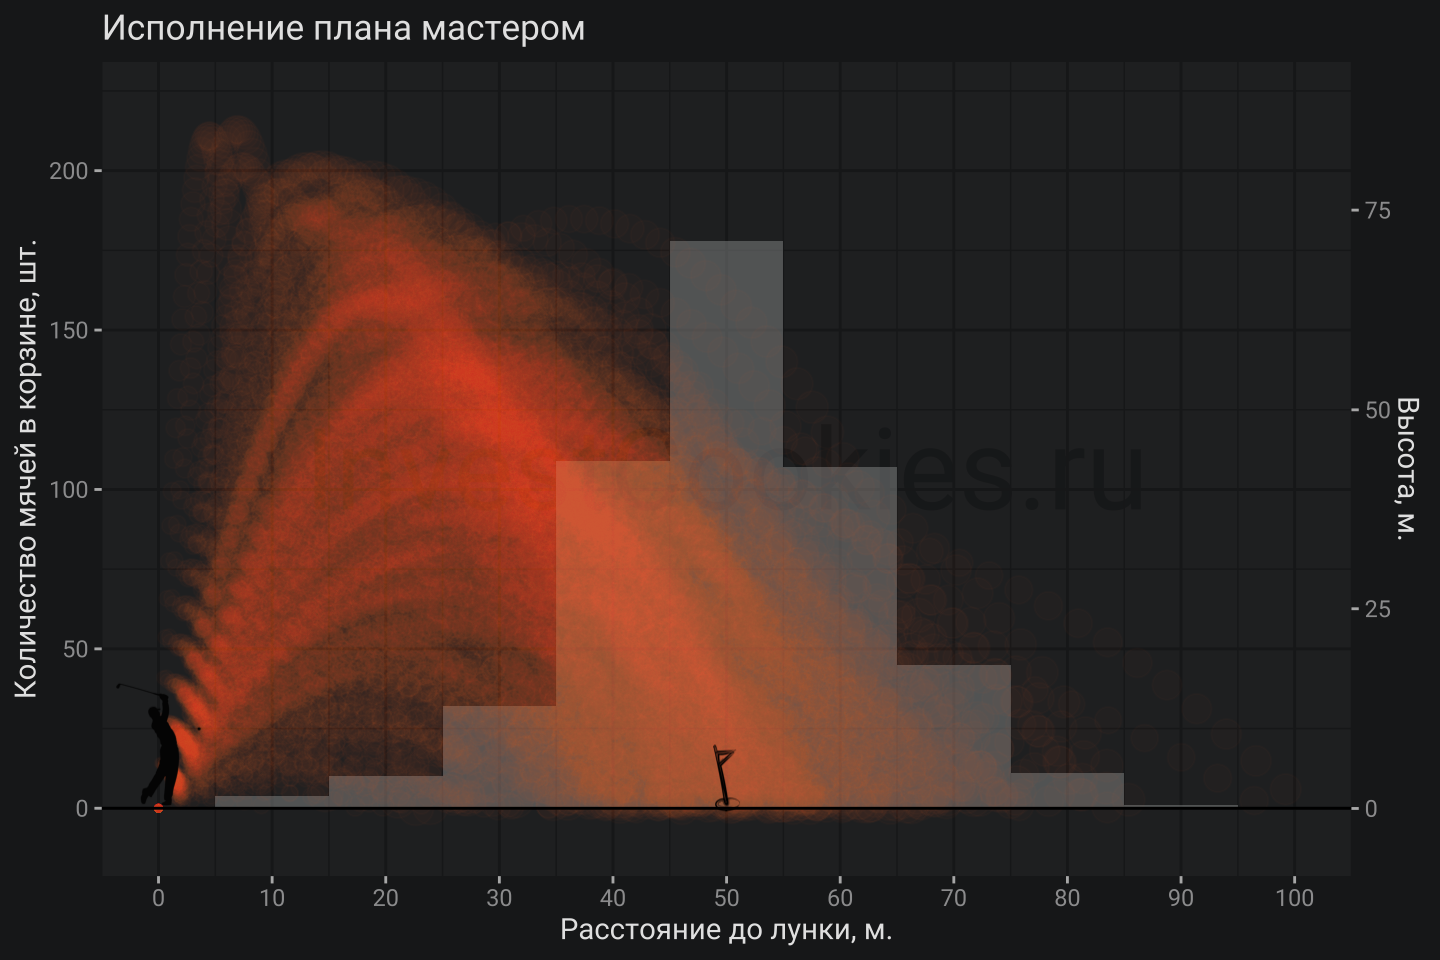
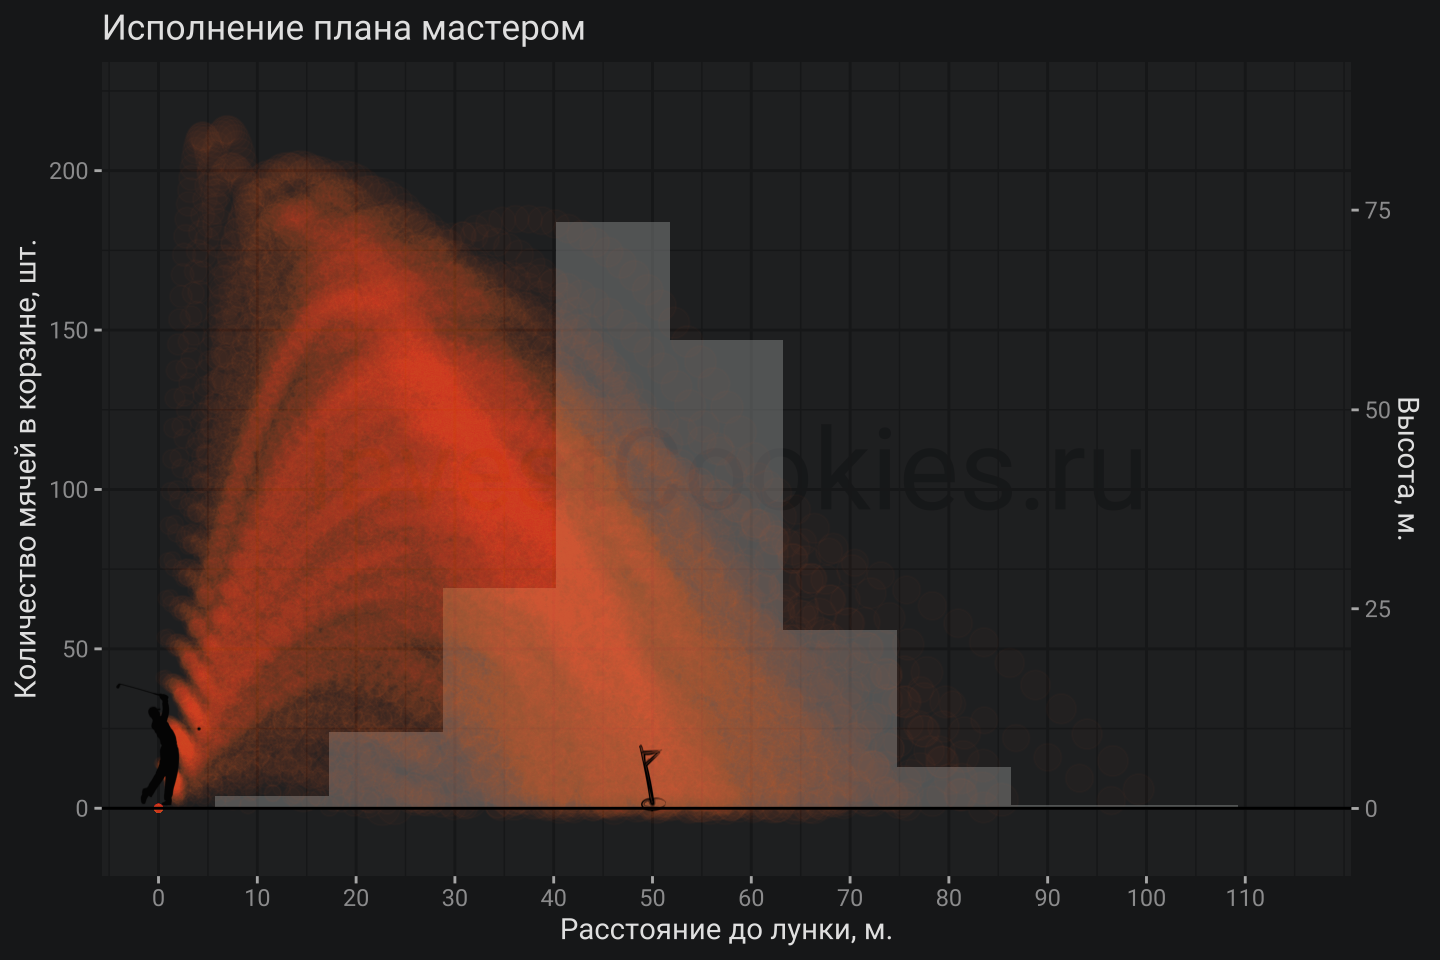
golf minor fixes

diff --git a/content/post/business_uncertainty/index.md b/content/post/business_uncertainty/index.md
@@ -143,7 +143,7 @@ plot_trajectory <- function(mdl_df, distr){
     geom_point(aes(x, y*2.5, size = t), alpha = .02, col = my_pal[2]) + 
     geom_hline(yintercept = 0, col = "black") + 
     scale_y_continuous(sec.axis = sec_axis(~./2.5, name = "Высота, м."), expand = c(.1, 0)) + 
-    scale_x_continuous(breaks = (0:10)*10, labels = (0:10)*10, limits = c(0, 100)) +
+    scale_x_continuous(breaks = (0:11)*10, labels = (0:11)*10, limits = c(0, 115)) +
     annotation_custom(grid::rasterGrob(golfer), xmin = -20, xmax = 20, ymin = 0, ymax = 40) +
     annotation_custom(grid::rasterGrob(hole), xmin = 45, xmax = 55, ymin = -1, ymax = 20) +
     labs(y = "Количество мячей в корзине, шт.", x = "Расстояние до лунки, м.") +
@@ -247,14 +247,14 @@ c(med - sd, med + sd) # стандарт качества для новичка
 ## [1]  2.89 95.27
 ```
 
-Игроки со смещенным планом полета мяча получат смещенный диапазон попаданий:
+Игроки со смещенным планом полета мяча получат смещенный диапазон попаданий, но более интересно то, что разброс приземлений мяча также увеличивается:
 
 
 ```r
 med <- median(res_distr3$last) %>% round(2)
 sd <- round(sd(res_distr3$last)*3, 2) 
 
-c(med - sd, med + sd) # стандарт качества для новичка
+c(med - sd, med + sd) # стандарт качества для максималиста
 ## [1]  16.17 123.43
 ```
 Теперь на основе теории вероятности можно сделать объективный вывод о том, что гольфист-максималист должен поправить свою плановую траекторию. Для этого необходимо доказать, что смещение попаданий от лунки не носит случайный характер. В первую очередь нужно убедиться, что распределение падений мяча гольфиста-макималиста имеет нормальную форму: 
@@ -327,7 +327,7 @@ ggplot(budget) +
 
 <img src="{{< blogdown/postref >}}index_files/figure-html/unnamed-chunk-12-1.png" width="720" />
 
-В данном примере можно заметить, что самые большие дефициты бюджета случаются в декабре месяце каждого года, отражая неравномерность расходования средств. В среднем федеральный бюджет закрывался с небольшим минусом в последние 11 лет в размере **-0.21 млрд. рублей** ежемесячно. В целом можно сказать, что бюджет планируется достаточно хорошо с точки зрения финансовой дисциплины, но неравномерность исполнения бюджета требует доработок.
+В данном примере можно заметить, что самые большие дефициты бюджета случаются в декабре месяце каждого года, отражая неравномерность расходования средств. В среднем федеральный бюджет закрывался с небольшим минусом в последние 11 лет в размере **-0.21 млрд. рублей** ежемесячно. В целом можно сказать, что бюджет планируется достаточно хорошо с точки зрения финансового баланса расходов/доходов, но неравномерность исполнения бюджета требует доработок.
 
 ## Итоги
 
